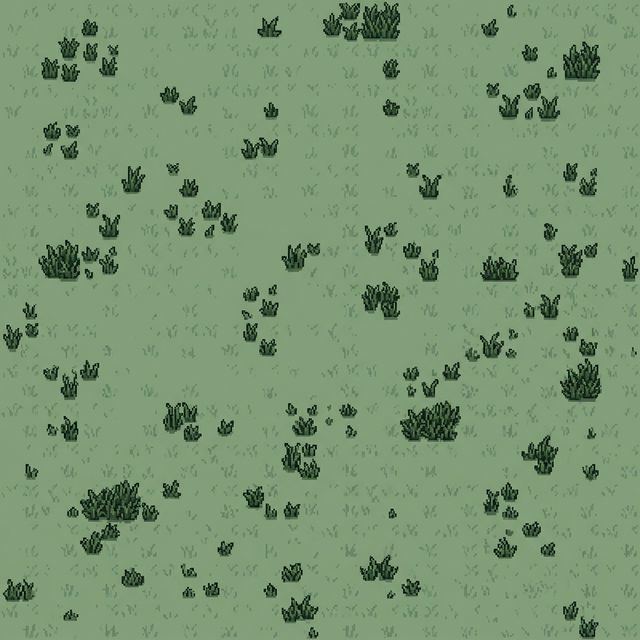
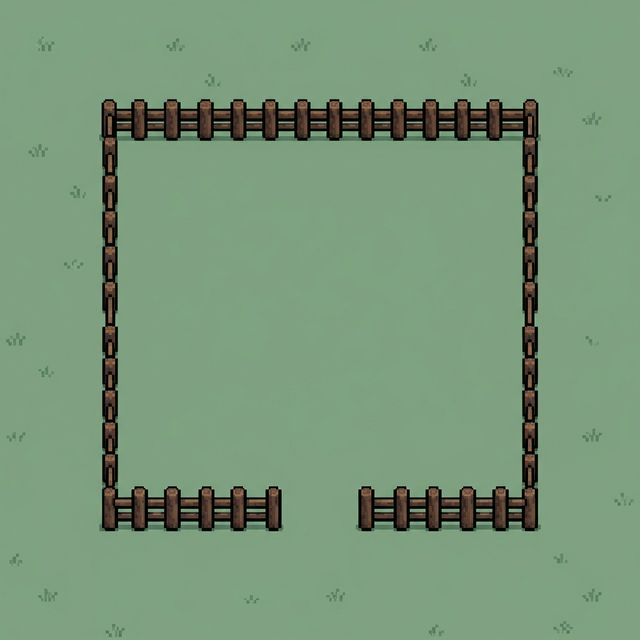
v22

diff --git a/script.js b/script.js
@@ -14,10 +14,10 @@ mapImage.src = 'farm_map.png';
 let mapLoaded = false;
 mapImage.onload = () => { mapLoaded = true; };
 
-// Player - Realistic speed and hitbox
+// Player - Precise collision hitbox
 const player = {
-    x: 512,
-    y: 512,
+    x: 512, // Start middle bottom (near the gate)
+    y: 850,
     width: 24,
     height: 38,
     speed: 5,
@@ -64,7 +64,6 @@ function startGame() {
     document.getElementById('game-ui').style.display = 'block';
 }
 
-// Inputs
 const keys = {};
 window.addEventListener('keydown', (e) => {
     if (gameState === 'MENU') {
@@ -86,12 +85,32 @@ window.addEventListener('keyup', (e) => {
     keys[e.key.toLowerCase()] = false;
 });
 
-// Move physics
+// ============================================
+// PRECISE FENCE COLLISION (based on a 600x600 yard in center)
+// ============================================
 function checkCollision(px, py, pw, ph) {
     const fx = px + pw / 2;
-    const fy = py + ph - 4;
-    // Map Bounds Only
-    if (fx < 16 || fx > 1008 || fy < 16 || fy > 1008) return true;
+    const fy = py + ph - 4; // Check feet area only
+
+    // OUTER MAP BOUNDS
+    if (fx < 20 || fx > 1004 || fy < 20 || fy > 1004) return true;
+
+    // FENCE ENCLOSURE (approx coordinates for the central yard)
+    // Yard is from x: 212-812, y: 212-812
+    const fenceOffset = 15; // Tightness
+    
+    // LEFT Fence line
+    if (fx > 200 && fx < 232 && fy > 200 && fy < 820) return true;
+    
+    // RIGHT Fence line
+    if (fx > 792 && fx < 824 && fy > 200 && fy < 820) return true;
+    
+    // TOP Fence line
+    if (fy > 200 && fy < 232 && fx > 200 && fx < 824) return true;
+    
+    // BOTTOM Fence line (with GATE at x: 480-544)
+    if (fy > 792 && fy < 824 && (fx < 480 || fx > 544) && fx > 200 && fx < 824) return true;
+
     return false;
 }
 
@@ -107,10 +126,14 @@ function applyPhysics() {
         vy *= 0.707;
     }
     
-    if (!checkCollision(player.x + vx, player.y, player.width, player.height)) player.x += vx;
-    if (!checkCollision(player.x, player.y + vy, player.width, player.height)) player.y += vy;
+    if (!checkCollision(player.x + vx, player.y, player.width, player.height)) {
+        player.x += vx;
+    }
+    
+    if (!checkCollision(player.x, player.y + vy, player.width, player.height)) {
+        player.y += vy;
+    }
 
-    // Camera follow
     camera.x = player.x + player.width/2 - canvas.width/2;
     camera.y = player.y + player.height/2 - canvas.height/2;
     
@@ -135,7 +158,6 @@ function drawPlayer() {
     const px = Math.floor(player.x);
     const py = Math.floor(player.y);
     
-    // Shadow
     ctx.fillStyle = 'rgba(0,0,0,0.3)';
     ctx.beginPath();
     ctx.ellipse(px + 12, py + 36, 10, 4, 0, 0, Math.PI * 2);
